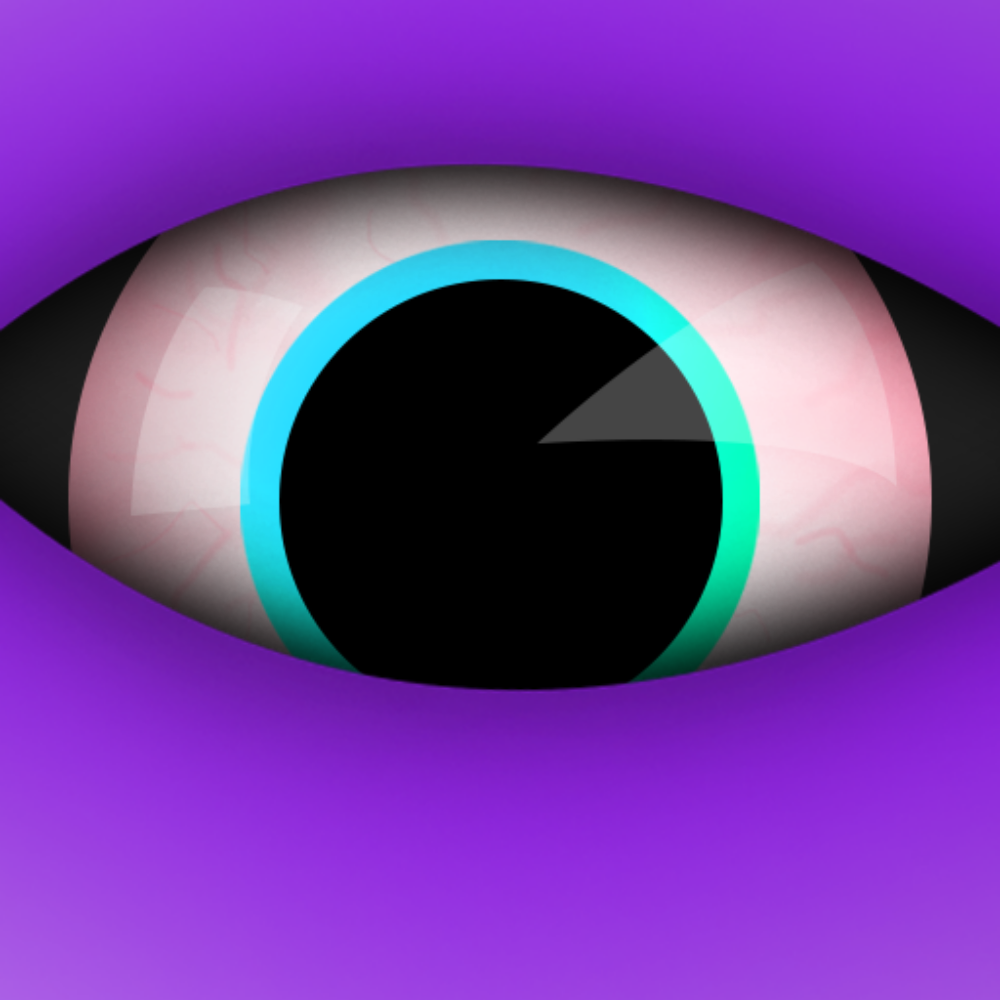
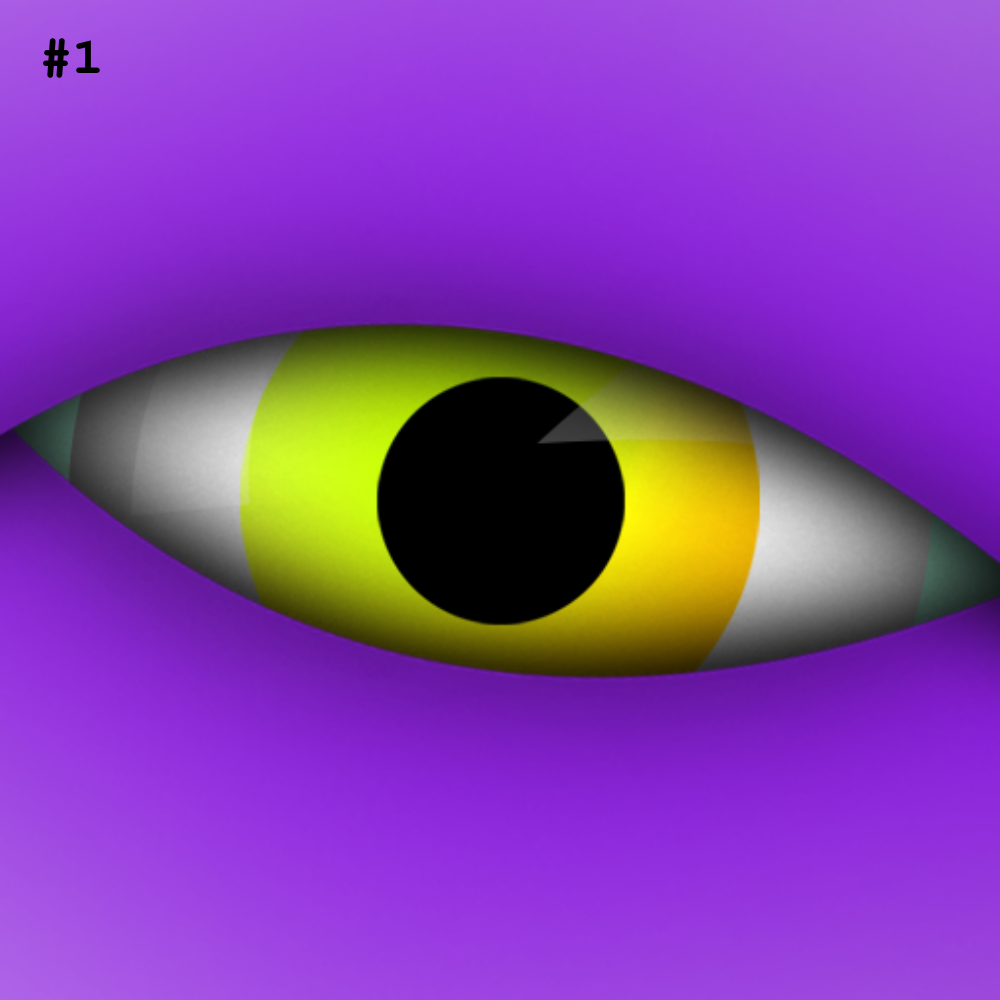
refactored

diff --git a/index.js b/index.js
@@ -1,74 +1,99 @@
 const myArgs = process.argv.slice(2)
 const fs = require('fs')
-const { createCanvas, loadImage }  = require('canvas')
+const { createCanvas, loadImage } = require('canvas')
 const { layers, width, height } = require('./input/config')
 const { resolve } = require('path')
 const canvas = createCanvas(width, height)
 const ctx = canvas.getContext('2d')
 const editionSize = myArgs.length > 0 ? Number(myArgs[0]) : 1
 
-var metadata = []
-var attributes = []
-var hash = []
-var decodedHash = []
+var metadataList = []
+var attributesList = []
 var dnaList = []
 
 
 
-const saveLayer = (_canvas, _editionSize) => {
-    fs.writeFileSync(`./output/${_editionSize}.png`, _canvas.toBuffer('image/png'))
+const saveImage = (_editionCount) => {
+    fs.writeFileSync(`./output/${_editionCount}.png`, canvas.toBuffer('image/png'))
 }
 
-const addMetadata = (_editionSize) => {
-    let datetime = Date.now()
+const signImage = (_editionCount) => {
+    ctx.fillStyle = "#000000"
+    ctx.font = "bold 40pt Courier"
+    ctx.textBaseline = "top"
+    ctx.textAlign = "left"
+    ctx.fillText("#"+_editionCount, 40, 40)
+}
+
+const genColor = () => {
+    let hue = Math.floor(Math.random() * 360)
+    let pastel = `hsl(${hue}, 100%, 85%)`
+    return pastel
+}
+
+const drawBackground = () => {
+    ctx.fillStyle = genColor()
+    ctx.fillRect(0, 0, width, height)
+}
+
+const addMetadata = (_dna, _edition) => {
+    let dateTime = Date.now()
     let tempMetadata = {
-        hash: hash.join(""),
-        decodedHash: decodedHash,
-        editionSize: _editionSize,
-        date: datetime,
-        attributes: attributes
+        dna: _dna,
+        edition: _edition,
+        date: dateTime,
+        attributes: attributesList
     }
-    metadata.push(tempMetadata)
-    attributes = []
-    hash = []
-    decodedHash = []
+    metadataList.push(tempMetadata)
+    attributesList = []
 }
 
-const addAttributes = (_element, _layer) => {
-    let tempAttr = {
-        id: _element.id,
-        layer: _layer.name,
-        name: _element.name,
-        rarity: _element.rarity
-    }
-    attributes.push(tempAttr)
-    hash.push(_layer.id)
-    hash.push(_element.id)
-    decodedHash.push({[_layer.id]: _element.id})
+const addAttributes = (_element) => {
+    let selectedElement = _element.layer.selectedElement
+    attributesList.push({
+        name: selectedElement.name,
+        rarity: selectedElement.rarity,
+    })
 }
 
-const loadLayer = async (_layer) => {
-    return new Promise(async() => {
-        const image = await loadImage(`${_layer.location}${element.fileName}`)
-        resolve({layer: _layer, loadedImage: image})
+const loadLayerImg = async (_layer) => {
+    return new Promise(async (resolve) => {
+        const image = await loadImage(
+            `${_layer.location}${_layer.selectedElement.fileName}`
+        )
+        resolve({ layer: _layer, loadedImage: image })
     })
 }
 
 const drawElement = (_element) => {
-    ctx.drawImage(image, _layer.position.x, _layer.position.y, _layer.size.width, _layer.size.height)
+    ctx.drawImage(
+        _element.loadedImage,
+        _element.layer.position.x,
+        _element.layer.position.y,
+        _element.layer.size.width,
+        _element.layer.size.height
+    )
     addAttributes(_element)
 }
 
-const constructLayerToDna = (_dna, _layer) => {
-    let DnaSegment = _dna.toString().match(/.{1,2}/)
-    console.log(DnaSegment)
+const constructLayerToDna = (_dna, _layers) => {
+    let DnaSegment = _dna.toString().match(/.{1,2}/g)
+    let mappedDnaToLayers = _layers.map((layer) => {
+        let selectedElement = layer.elements[parseInt(DnaSegment) % layer.elements.length]
+        return {
+            location: layer.location,
+            position: layer.position,
+            size: layer.size,
+            selectedElement: selectedElement
+        }
+    })
+    return mappedDnaToLayers
 }
 
 
-const isDnaUnique = (_dnaList = [1,2], _dna) => {
+const isDnaUnique = (_dna, _dnaList = dnaList) => {
     let foundDna = _dnaList.find((i) => i === _dna)
     return foundDna == undefined ? true : false
-    return true
 }
 
 const createDna = (_len) => {
@@ -77,31 +102,46 @@ const createDna = (_len) => {
     return randNum
 }
 
-const writeMetadata = () => {
-    fs.writeFileSync("./output/_metadata.json", JSON.stringify(metadata))
+const writeMetadata = (_data) => {
+    fs.writeFileSync("./output/_metadata.json", _data)
 }
 
 
-const startCreating = () => {
+const startCreating = async () => {
+    writeMetadata("")
     let editionCount = 1;
-    while(editionCount <= editionSize) {
+
+    while (editionCount <= editionSize) {
         let newDna = createDna(layers.length)
-        console.log(newDna)
+        // console.log(dnaList)
 
-        if(isDnaUnique(newDna)){
-            let result = constructLayerToDna(newDna, layers)
+        if (isDnaUnique(newDna)) {
+            let results = constructLayerToDna(newDna, layers)
+            let loadedElements = []
 
-            // addMetadata(editionCount)
-            console.log('Creating edition ', editionCount)
+            results.forEach(layer => {
+                loadedElements.push(loadLayerImg(layer))
+            })
+
+            await Promise.all(loadedElements).then(elementArray => {
+                drawBackground()
+                elementArray.forEach(element => {
+                    drawElement(element)
+                })
+                signImage(editionCount)
+                saveImage(editionCount)
+                addMetadata(newDna, editionCount)
+                // console.log(`Created Edition: ${editionCount} with DNA: ${newDna}`)
+            })
             dnaList.push(newDna)
             editionCount++
         } else {
             console.log('Dna exists')
         }
-        
     }
+    writeMetadata(JSON.stringify(metadataList))
 }
 
 
 startCreating()
-writeMetadata()
+

diff --git a/input/config.js b/input/config.js
@@ -42,12 +42,12 @@ const getElements = (path) => {
 }
 
 const layers = [
-    {
-        location: `${dir}/background/`,
-        elements: getElements(`${dir}/background/`),
-        position: {x: 0, y: 0},
-        size: {width: width, height: height},
-    },
+    // {
+    //     location: `${dir}/background/`,
+    //     elements: getElements(`${dir}/background/`),
+    //     position: {x: 0, y: 0},
+    //     size: {width: width, height: height},
+    // },
     {
         location: `${dir}/ball/`,
         elements: getElements(`${dir}/ball/`),
